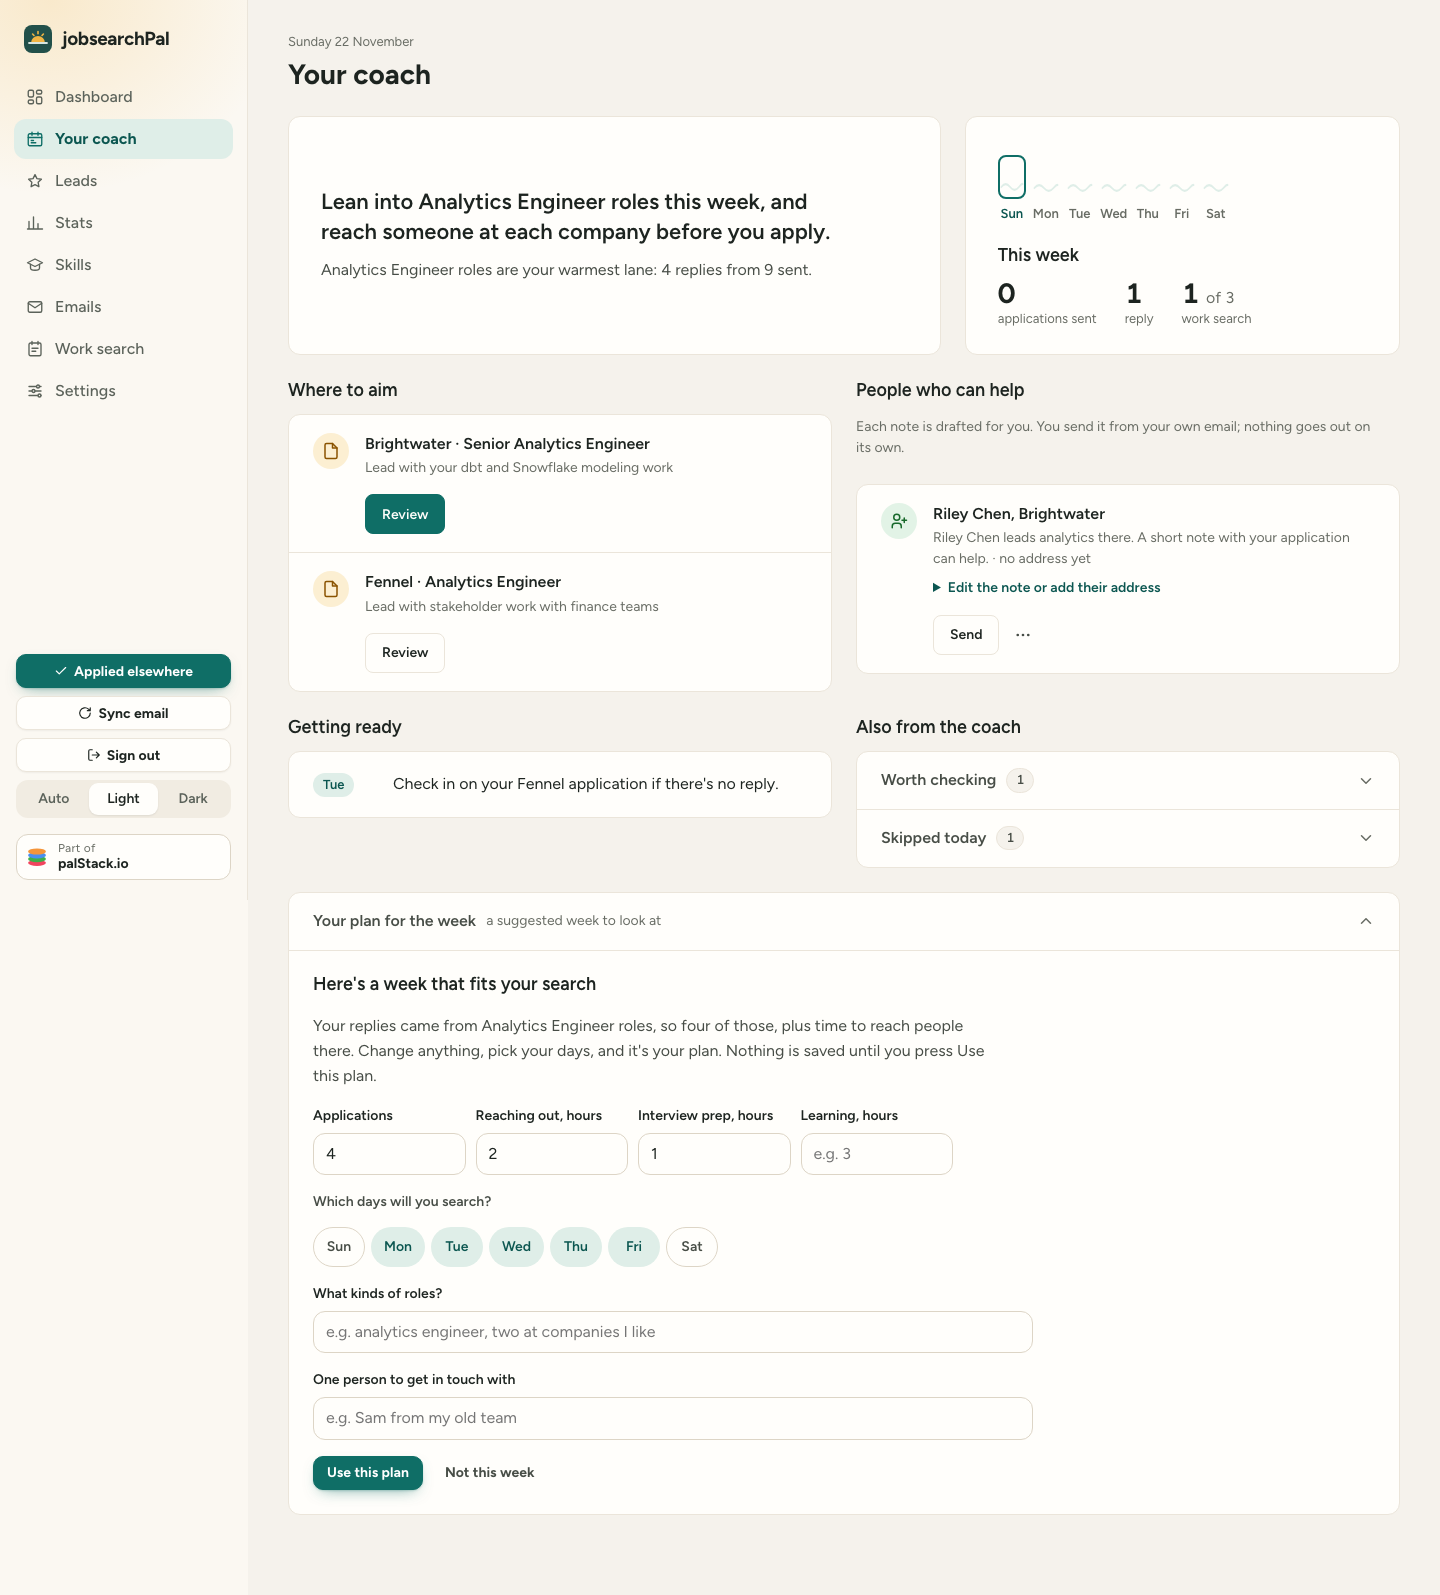
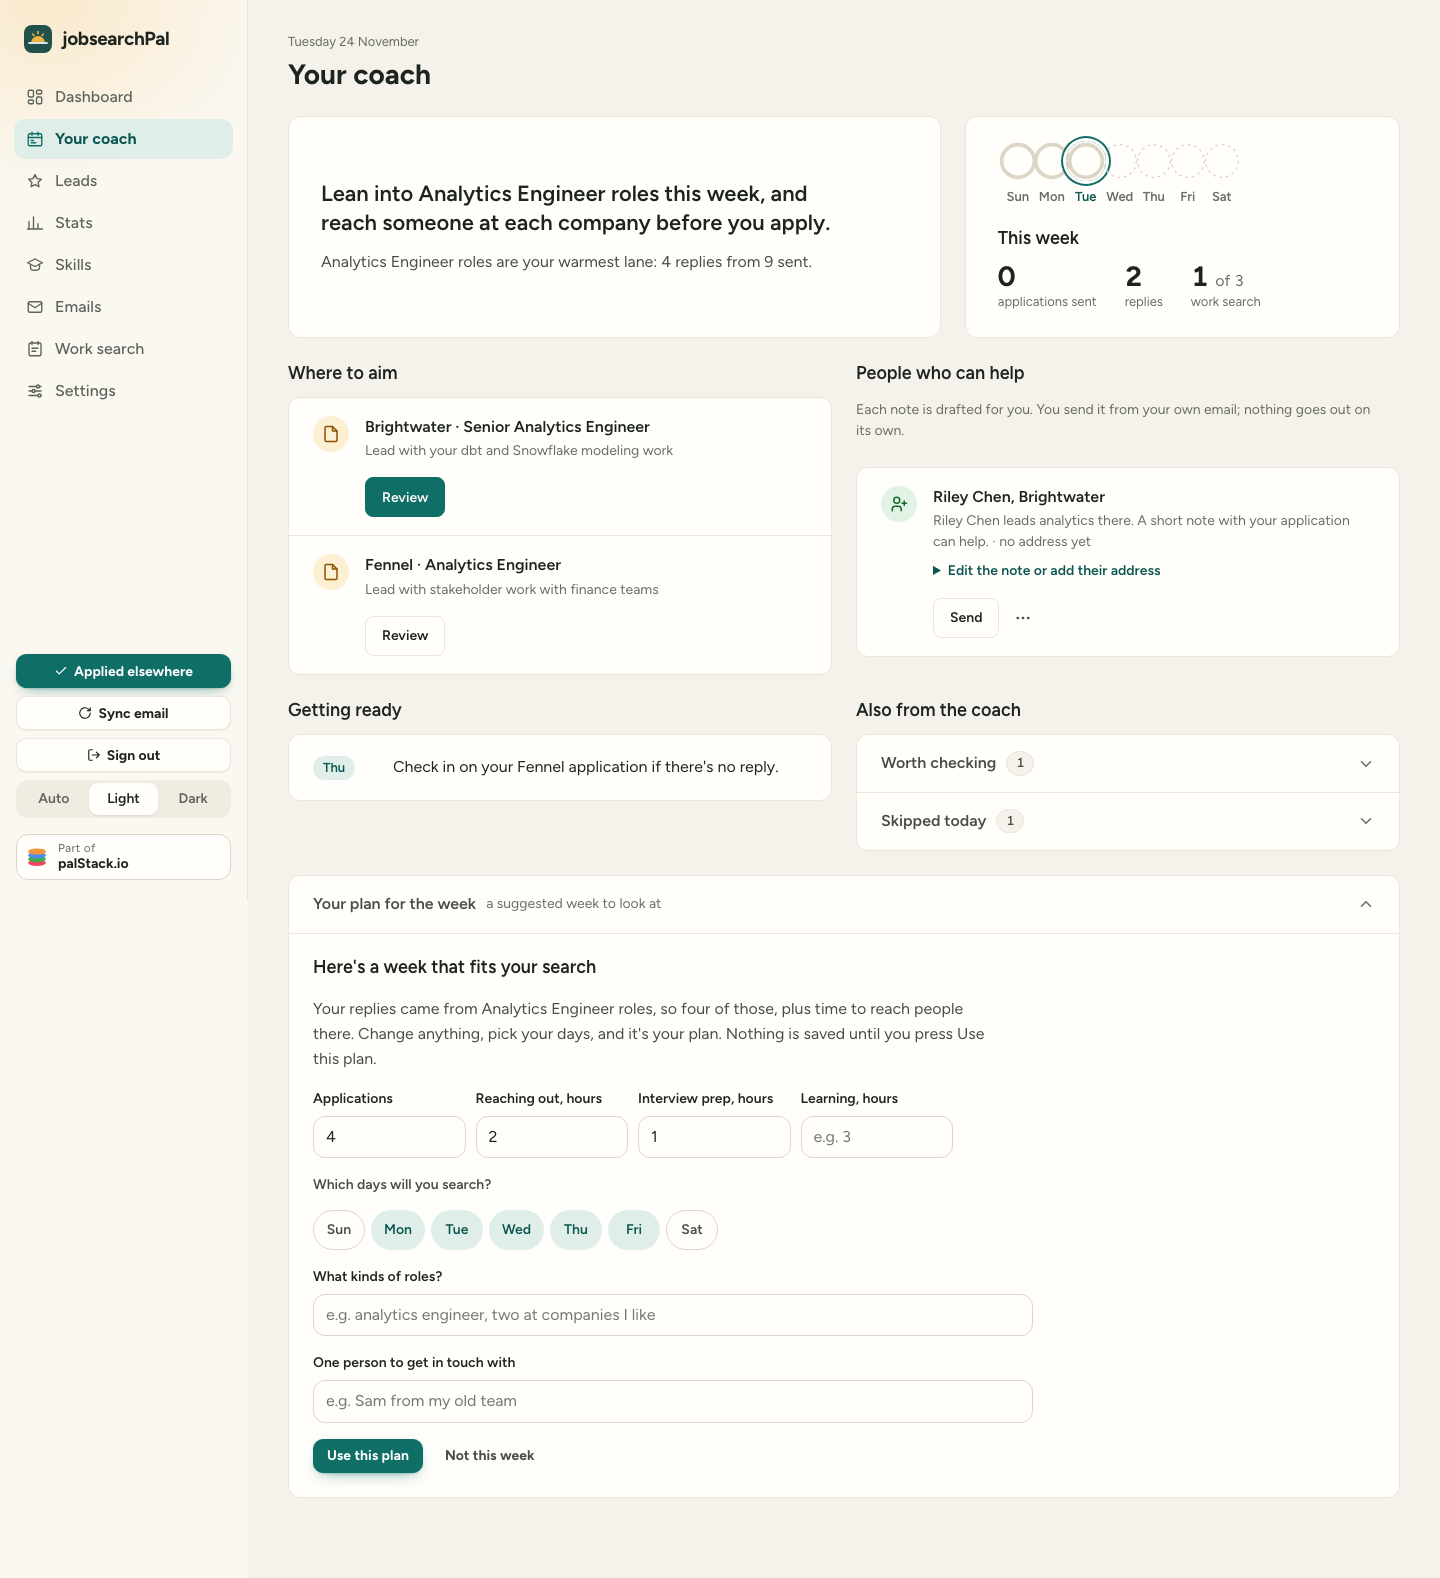
README: screenshots refreshed, plus Your situation (the first welcome step)
scripts/screenshots.py now also captures /welcome?step=0 as docs/situation.png; every other README image is
regenerated from the demo data so the rings, the six-step welcome and today's pages match.

diff --git a/scripts/screenshots.py b/scripts/screenshots.py
@@ -21,6 +21,7 @@ try:
         ("dashboard-phone.png", "/", 390, 844, "light", False),
         ("coach.png", "/coach", 1440, 900, "light", True),
         ("coach-phone.png", "/coach", 390, 844, "light", False),
+        ("situation.png", "/welcome?step=0", 1440, 900, "light", False),
         ("welcome.png", "/welcome?step=2", 1440, 900, "light", False),
         ("work-search.png", "/dua", 1440, 900, "light", True),
         ("leads.png", "/leads", 1440, 900, "light", True),

diff --git a/README.md b/README.md
@@ -117,6 +117,8 @@ Just laid off, or thinking about leaving? **[Your next step](https://palstack.io
 when (the claim, the 60-day health window, severance, your 401(k)) with nothing to install, and jobsearchPal's first
 step takes the plan it saves. Your situation can change later: **Settings > Something changed?**
 
+![Your situation, the first welcome step](docs/situation.png)
+
 ![The welcome steps](docs/welcome.png) The full guide, including a plain install without Docker and reaching the dashboard from your
 phone, is in [docs/setup.md](docs/setup.md).
 
